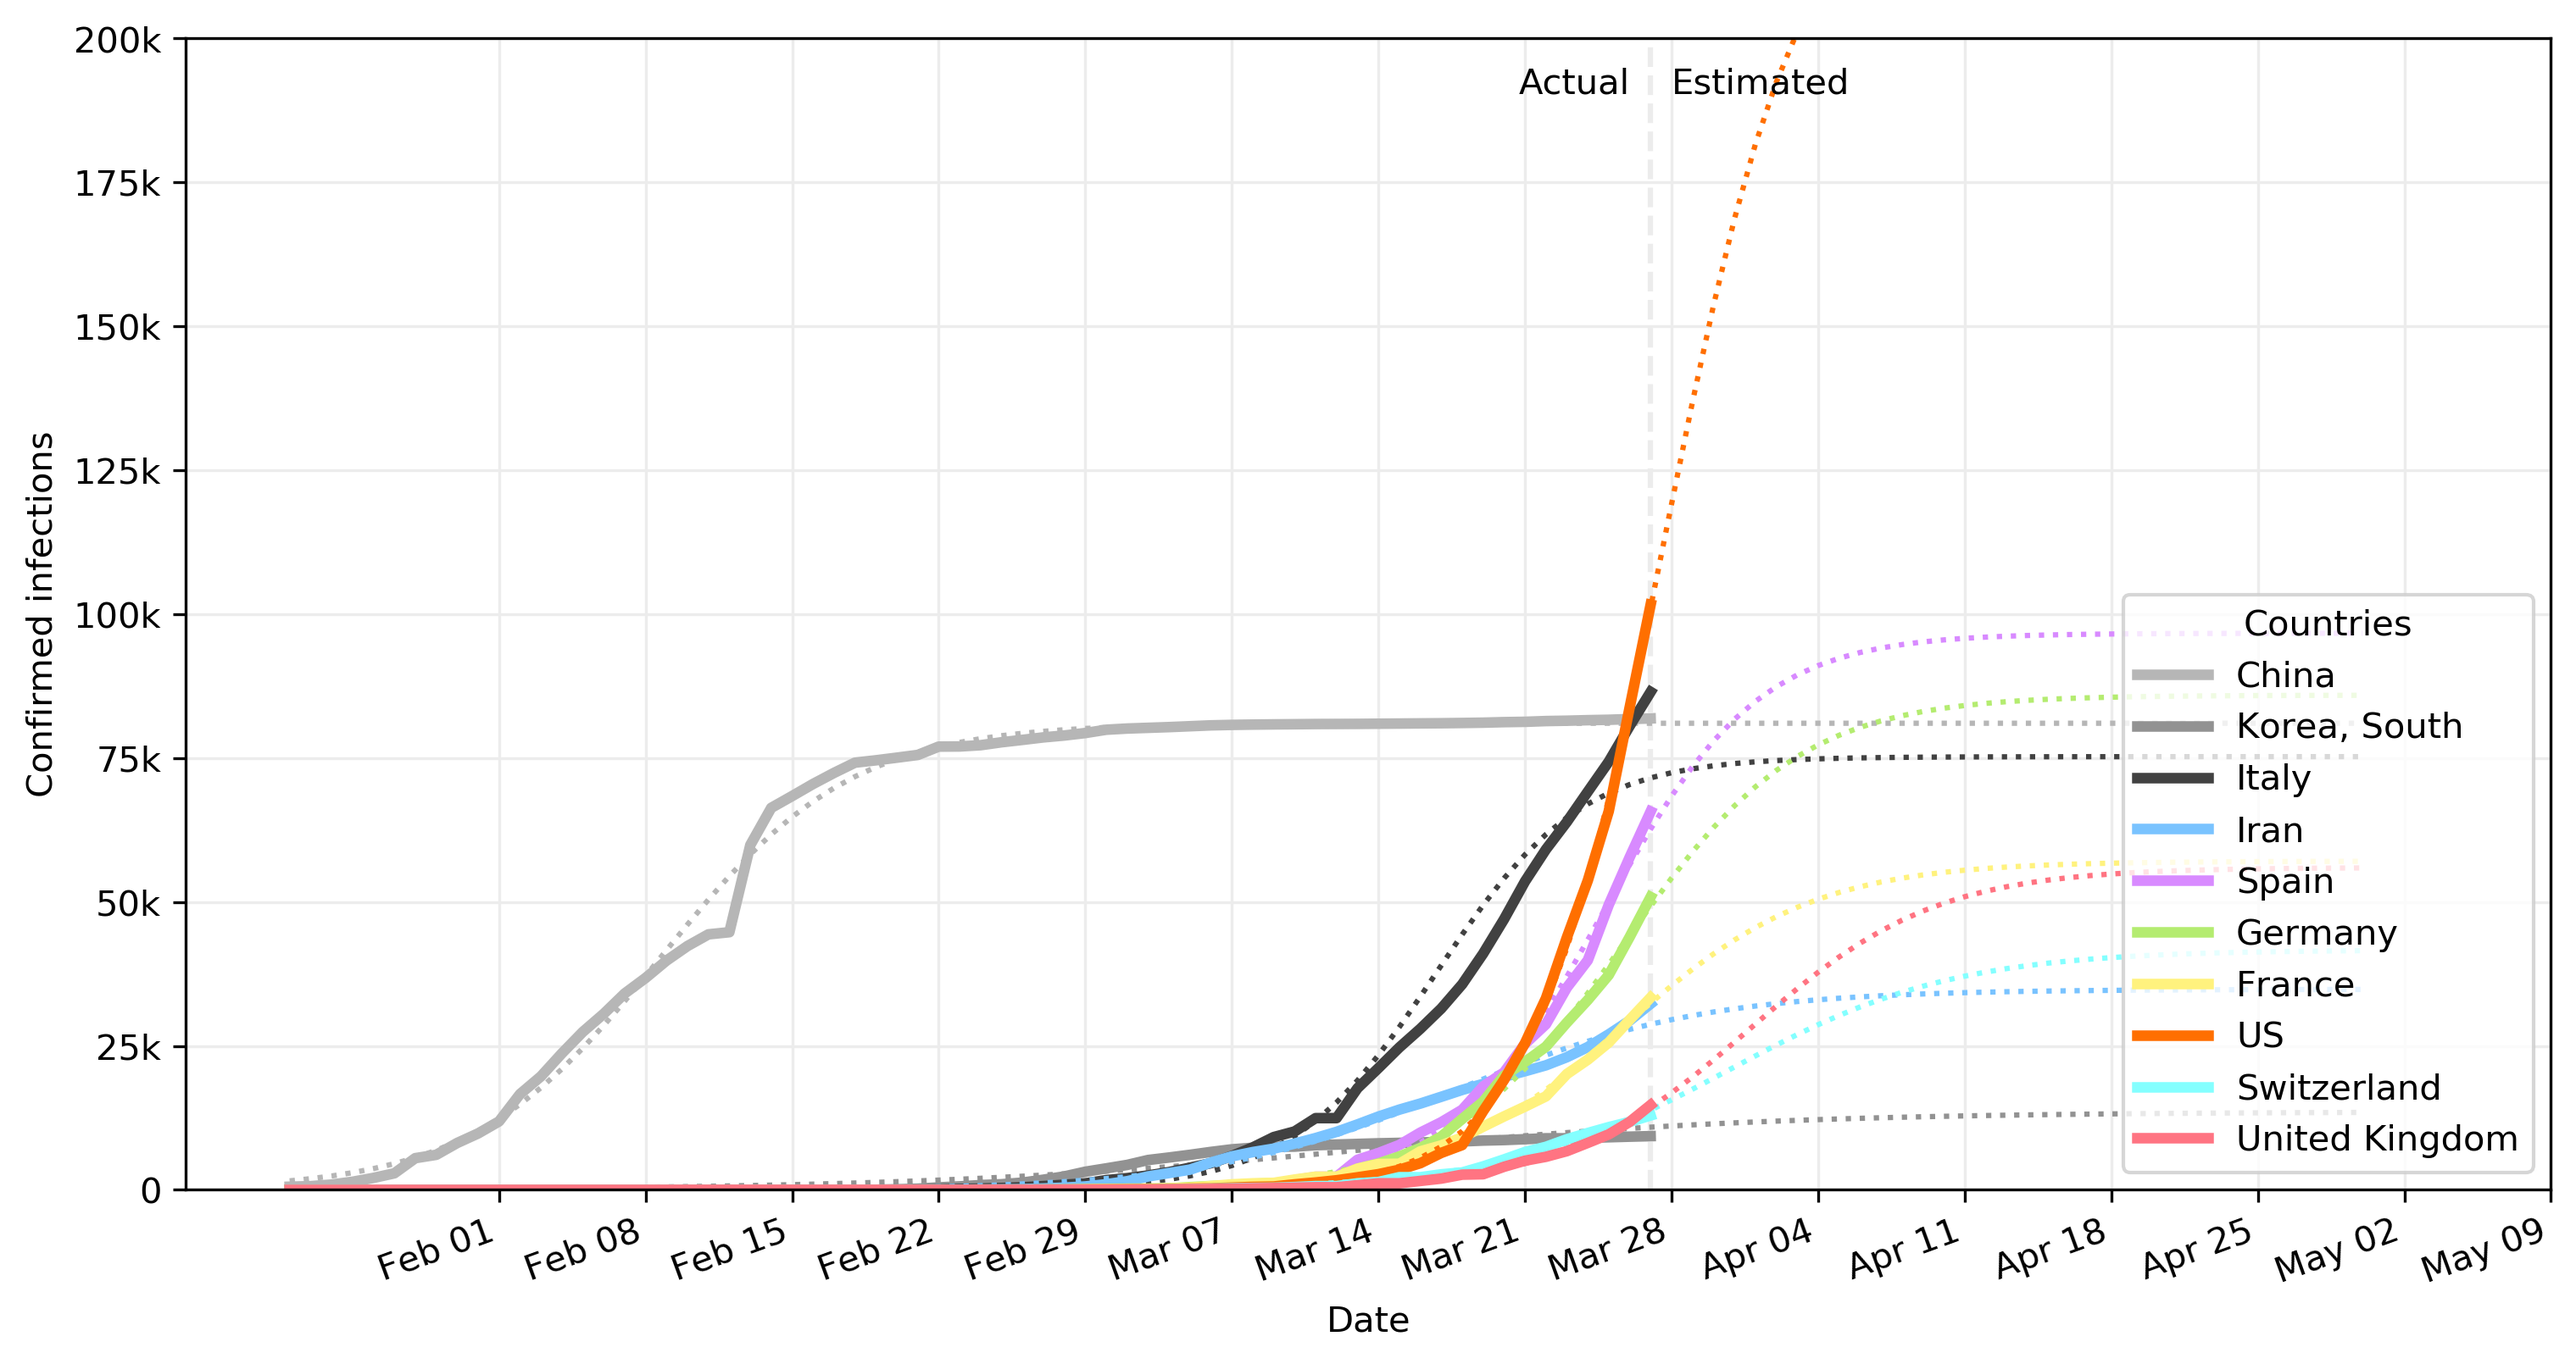
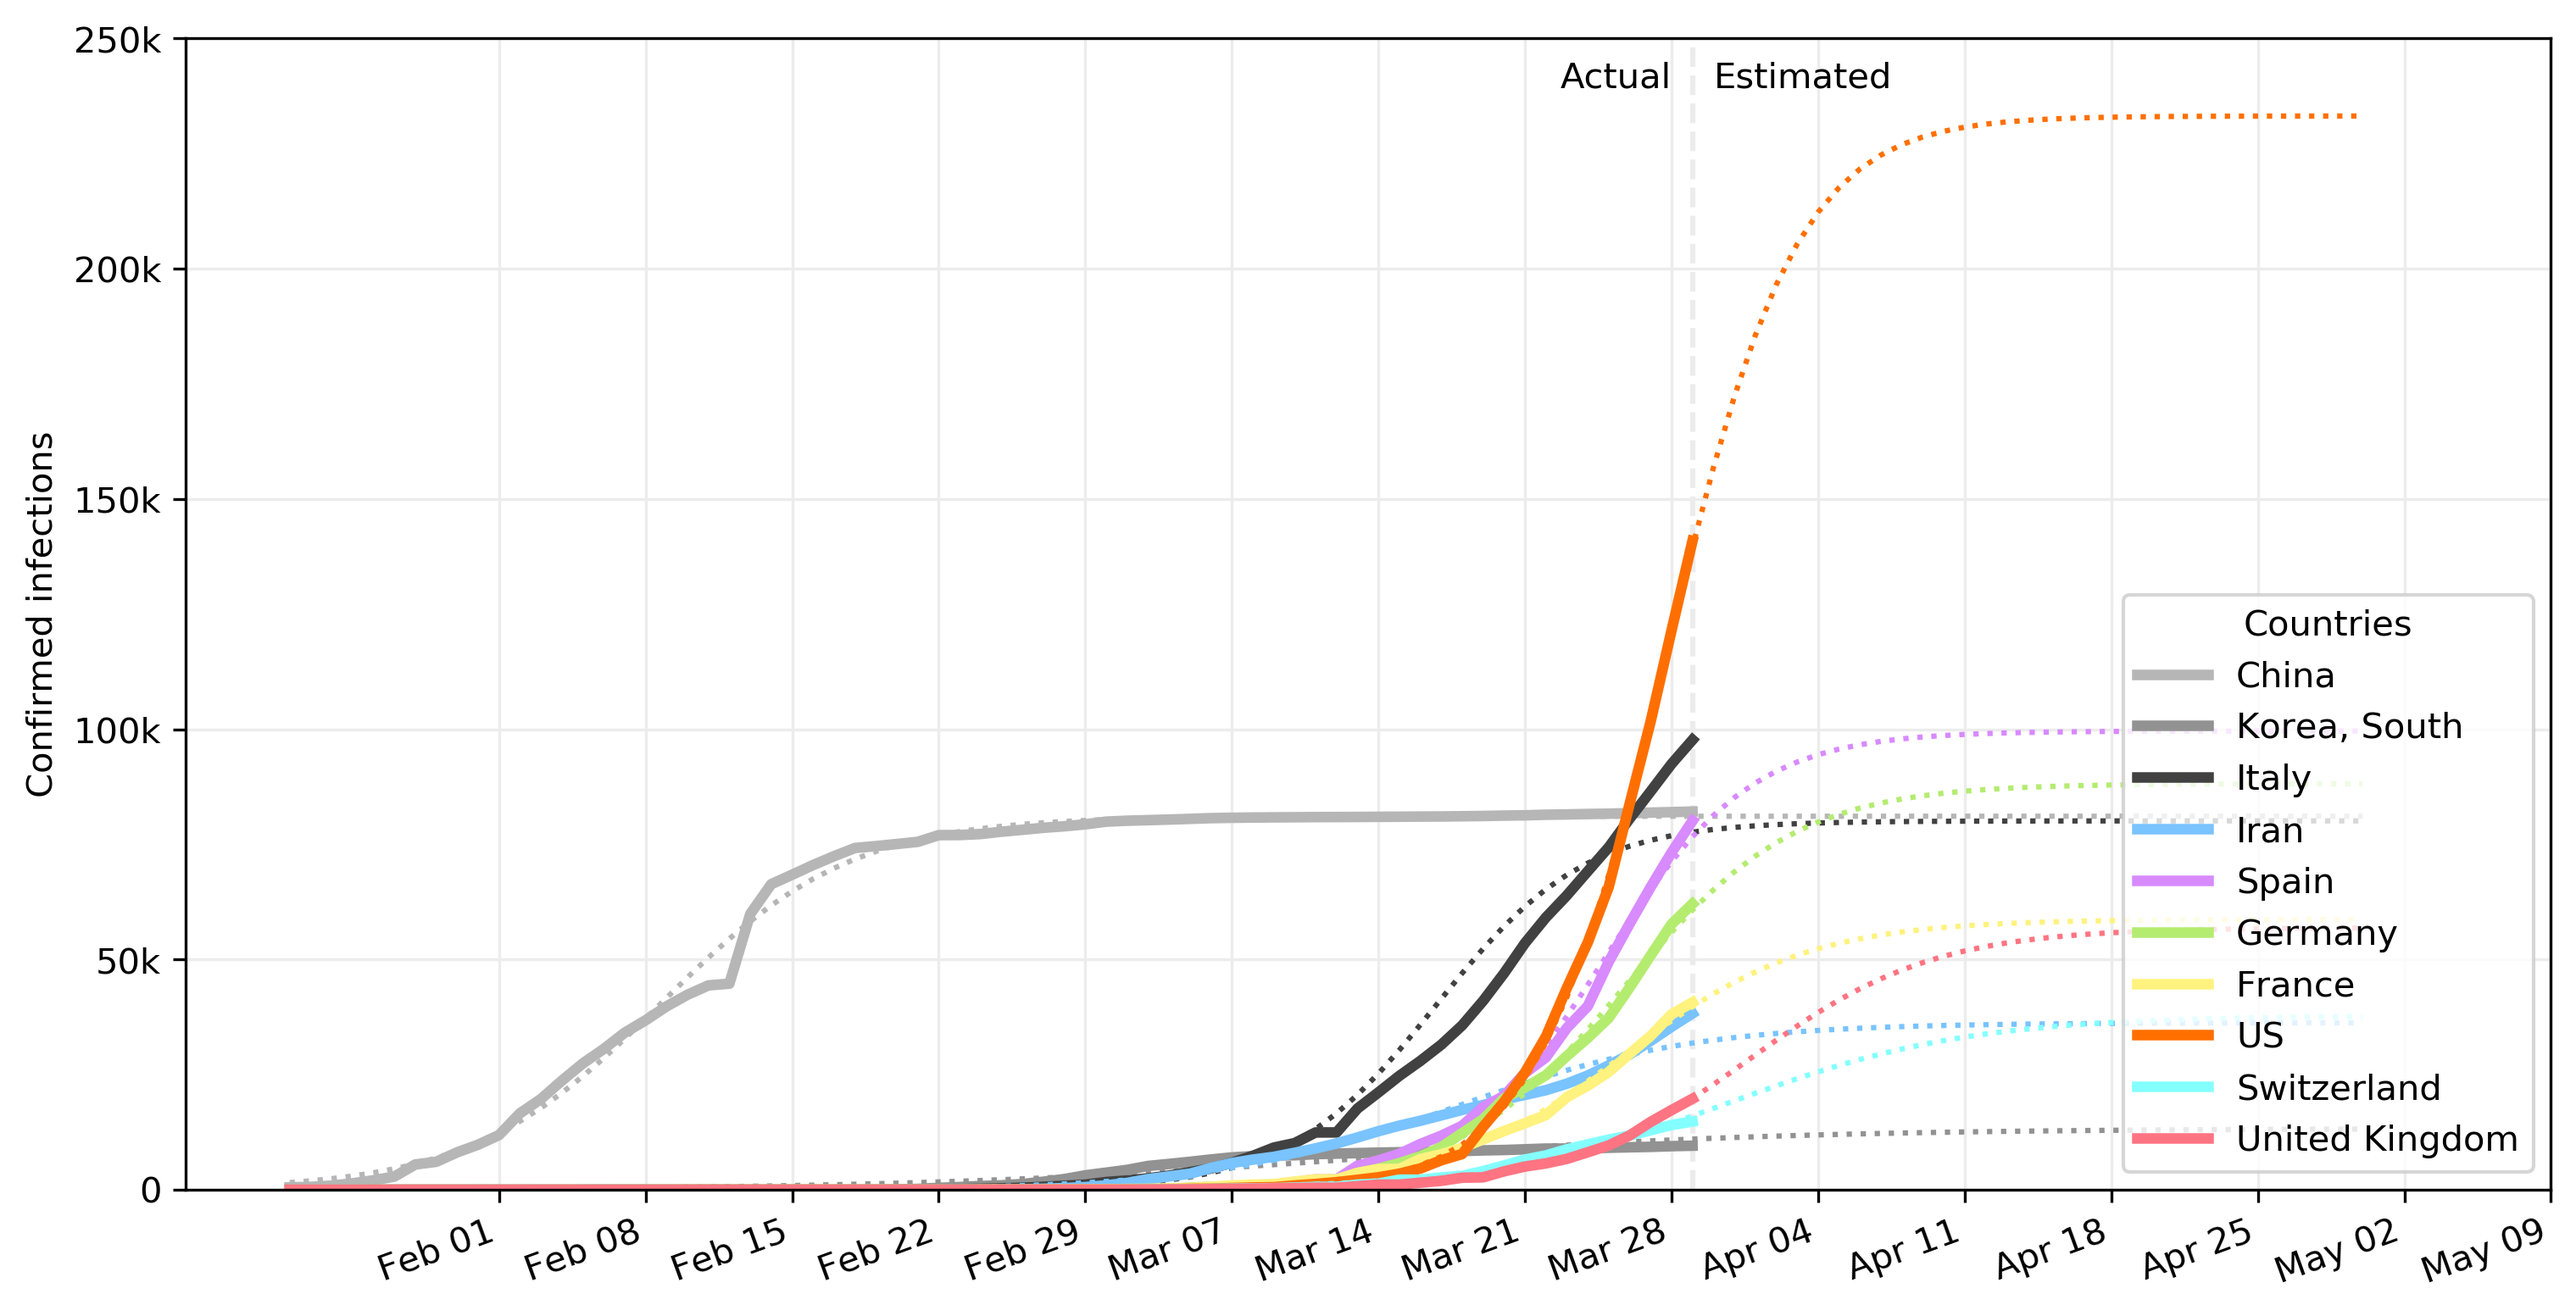
update

diff --git a/plot_trends.py b/plot_trends.py
@@ -91,10 +91,11 @@ for d in dat:
   )
 
 plt.xlim((np.datetime64('2020-01-22'), np.datetime64('2020-02-22')))
-plt.xticks([np.datetime64('2020-01-22') + np.timedelta64(d, 'D') for d in range(0, 30)])
-ax.set_xticklabels(range(0, 30))
+plt.xticks([np.datetime64('2020-01-22') + np.timedelta64(d, 'D') for d in range(0, 31)])
+ax.set_xticklabels(range(0, 31))
 plt.xlabel('Days since onset for each Country')
 
+plt.ylim(bottom=0)
 ax.set_yticklabels(['0' if x == 0 else '{:.0f}k'.format(int(x) / 1000) for x in ax.get_yticks().tolist()])
 plt.ylabel('Confirmed infections')
 
@@ -197,13 +198,12 @@ for d in dat:
   )
 
 # plots the now line
-y_max = 200000
+y_max = 250000
 now = np.datetime64('now').astype('datetime64[D]') - np.timedelta64(1, 'D')
 plt.vlines(now, ymin=0, ymax=y_max, colors=colors['very_light_gray'], linestyles='dashed')
 plt.annotate('Actual', xy=(now - np.timedelta64(1, 'D'), y_max - 5000), ha='right', va='top')
 plt.annotate('Estimated', xy=(now + np.timedelta64(1, 'D'), y_max - 5000), ha='left', va='top')
 
-plt.xlabel('Date')
 ticks = [np.datetime64('2020-02-01') + np.timedelta64(7 * x, 'D') for x in range(0, 15)]
 label_from_tick = lambda tick: pd.to_datetime(tick).strftime('%b %d')
 tick_labels = list(map(label_from_tick, ticks))
